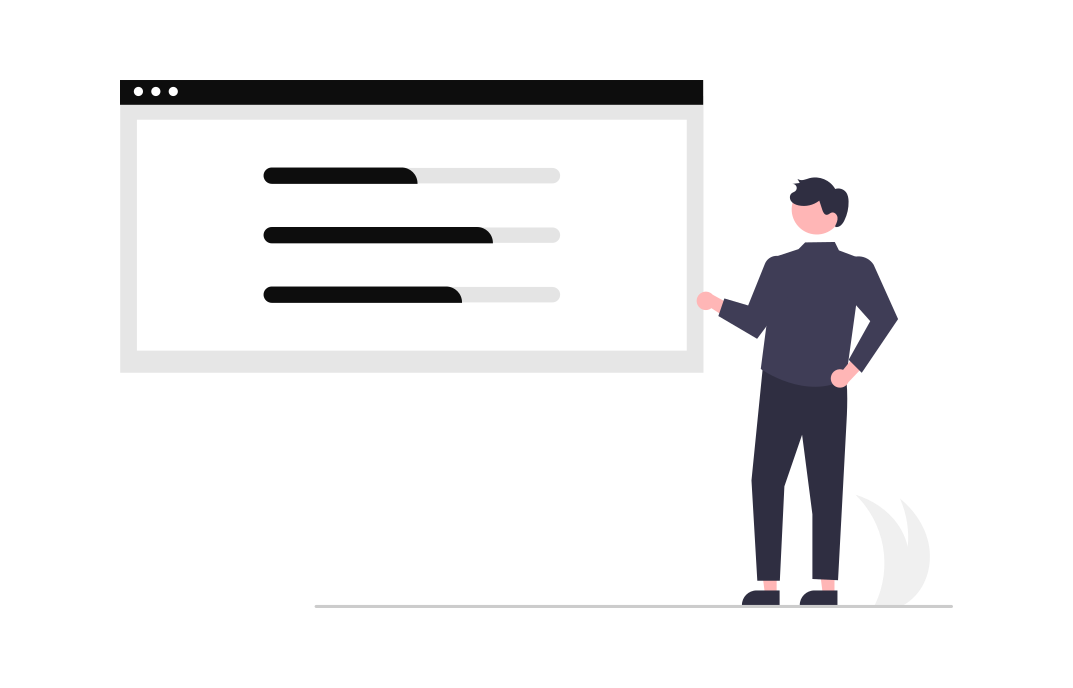
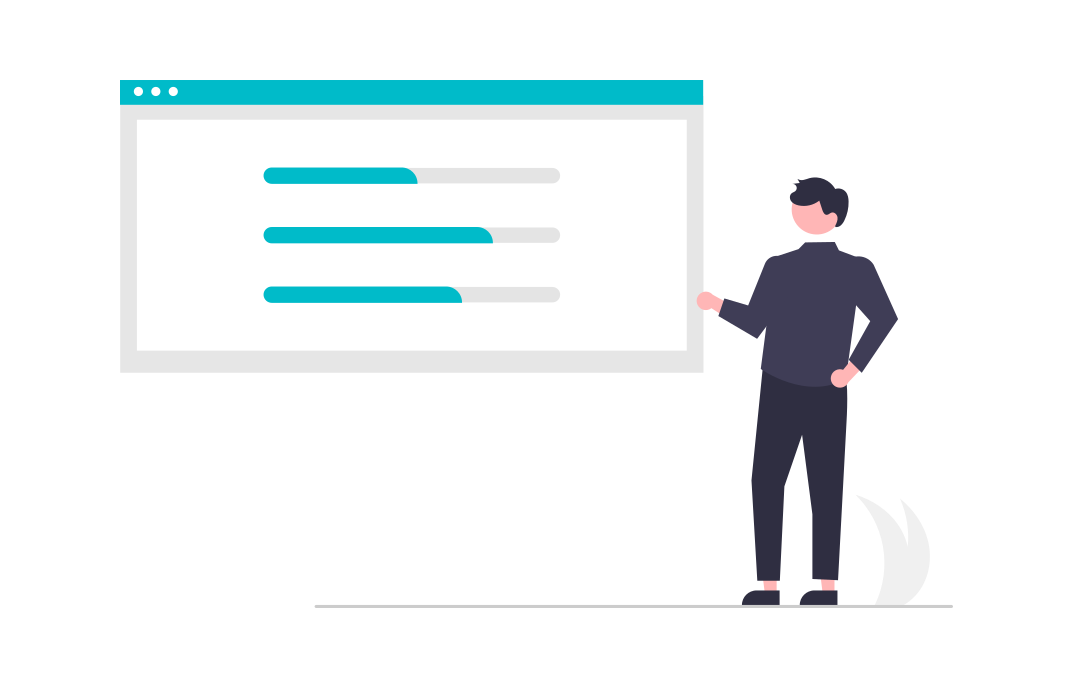
em andamento...

diff --git a/mobile.css b/mobile.css
@@ -1,4 +1,21 @@
+@charset "UTF-8";
+
+@import url('https://fonts.googleapis.com/css2?family=Poppins:ital,wght@0,200;0,300;0,400;0,500;0,600;0,700;0,800;0,900;1,200;1,300;1,400;1,500;1,600;1,700;1,800;1,900&display=swap');
+
+:root{
+    --white: #F2F2F2;
+    --grey:  #878787;
+    --black: #202022;
+    --blue1: #00BBC9;
+    --blue2: #00747C;
+    
+}
+
 @media (max-width: 920px){
+
+    nav .logo{
+        margin-left: -60px;
+    }
 
     nav .menu-btn i{
         display: block;
@@ -33,5 +50,27 @@
     nav ul li a:hover{
         background: none;
         color: var(--blue2);
+    }
+
+    main{
+        display: grid;
+        place-items: center;
+        justify-content: center;
+    }
+
+    main div{
+        width: 80vw;
+        margin-top: 50px;
+        margin-left: 0px;
+    }
+    
+    main p{
+        margin-top: 10px;
+    }
+    
+    main img{
+        width: 95vw;
+        height: 60vw;
+        margin-top: 10px;
     }
 }

diff --git a/index.html b/index.html
@@ -22,11 +22,22 @@
             <li><a href="#" > Sobre </a></li>
             <li><a href="#" > Serviços </a></li>
             <li><a href="#" > Galeria </a></li>
-            <li><a href="#" > Preços </a></li>
         </ul>
     </nav>
 
+    <main>
+        
+        <div>
+            <h1>
+                <div class="estatico">Eu Sou</div>
+            </h1>
 
+            <p>Lorem ipsum dolor sit amet consectetur adipisicing elit. Beatae necessitatibus facere natus delectus dolorum esse. Ea esse tempore a sed eligendi reprehenderit, tenetur fugit dolore, dicta obcaecati aperiam dolorem in?</p>
+        </div>
+        
+        <img src="img/undraw_Site_stats_re_ejgy.png" alt="">
+
+    </main>
 
 
 

diff --git a/style.css b/style.css
@@ -27,7 +27,6 @@ nav{
     justify-content: space-between;
     padding: 0 50px 0 100px;
     flex-wrap: wrap;
-    position: fixed;
 }
 
 nav .logo{
@@ -66,4 +65,34 @@ nav .menu-btn i{
     color: var(--white);
     cursor: pointer;
     display: none;
+}
+
+main{
+    display: flex;
+    justify-content: space-between;
+}
+
+main div{
+    width: 50%;
+    margin-top: 80px;
+    margin-left: 80px;
+}
+
+main h1{
+    color: var(--blue1);
+    text-decoration: none;
+}
+
+main p{
+    margin-top: 10px;
+    text-align: justify;
+    color: #00747C;
+    font-weight: 500;
+}
+
+main img{
+    width: 700px;
+    height: 500px;
+    min-width: 00px;
+    margin-top: 40px;
 }
